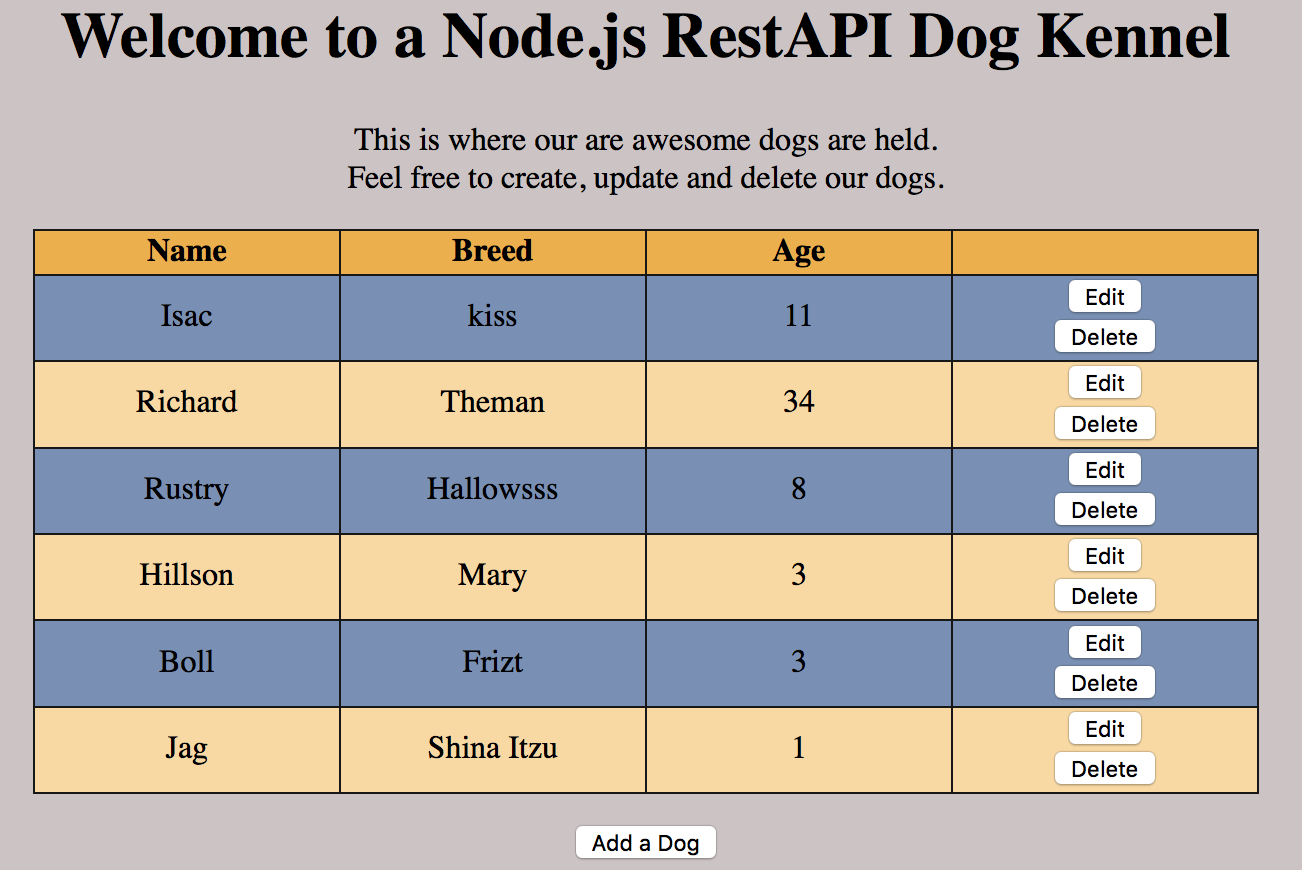
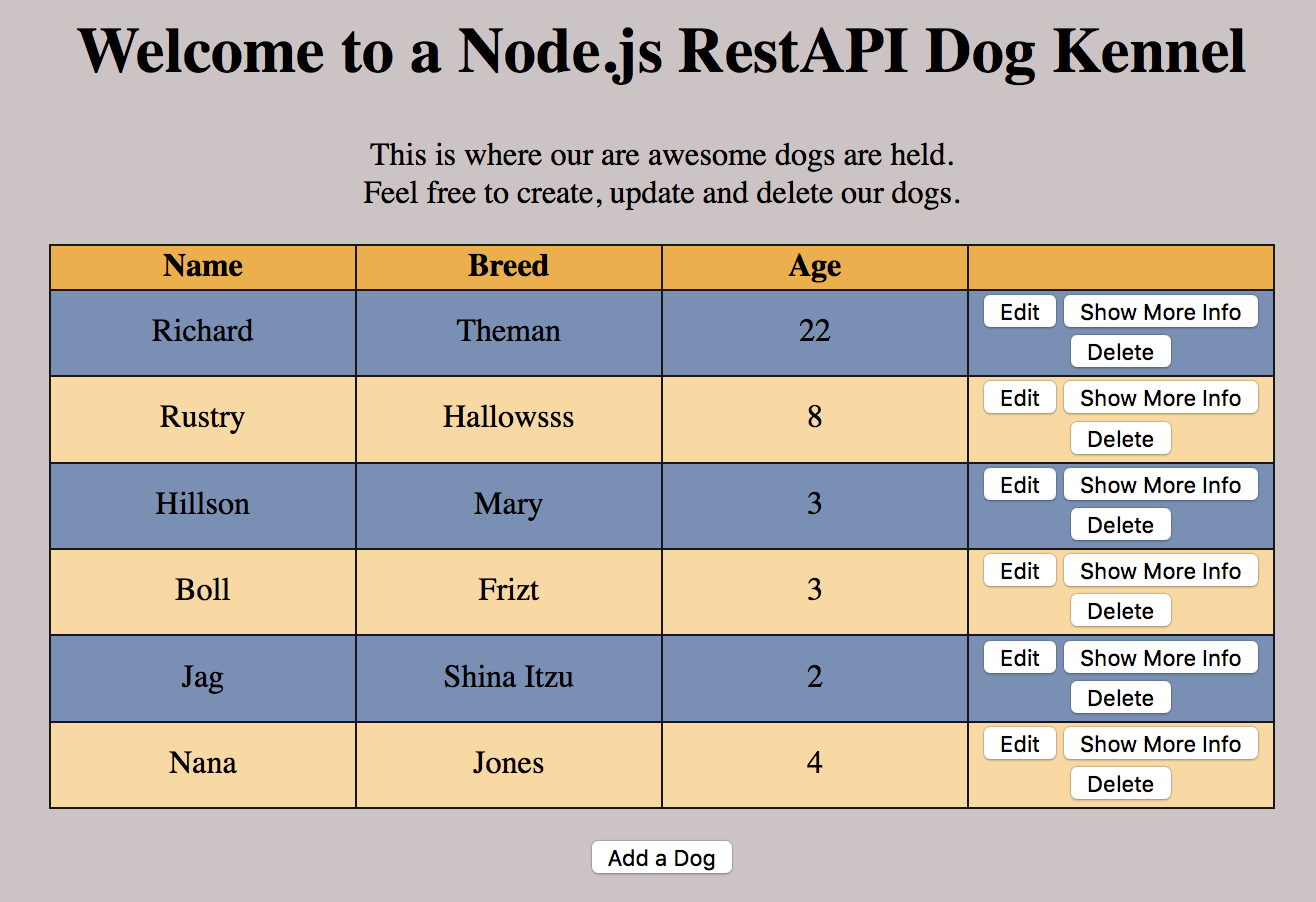
made api/:id show one

Changed region(s): [[0.0, 0.1241, 0.9831, 0.9931], [0.0307, 0.0, 0.9524, 0.0931]]

diff --git a/dogApi/index.js b/dogApi/index.js
@@ -12,26 +12,22 @@ var dogsSchema = mongoose.Schema({
 
 var Dog = mongoose.model('Dog', dogsSchema);
 
-var find = function(req, res){               
-    if(Object.keys(req.query).length === 0 ){
+var findAll = function(req, res){               
         Dog.find( {}, function(err,users){ 
                 if(err)
                     throw err;
                 else
                     res.render('index', { users: users } );
             });
-    }else if(Object.keys(req.query).length === 1 ) {
-        Dog.find(
-            { _id: req.query.id }
-        )
-        .exec(function(err, user){
-            if(err)
-                res.send('No Id Found in DB'); 
-            else
-                res.send(user);
-        });       
-        
-    }
+};
+
+var findOne = function(req, res){               
+        Dog.findById( req.params.id, function(err,user){ 
+                if(err)
+                    throw err;
+                else
+                    res.render('showOne', { user: user } );
+            });
 };
 
 var newDog =  function(req,res){    
@@ -88,7 +84,8 @@ module.exports ={
     mongoose, 
     bodyParser, 
     methodOverride,
-    find,
+    findAll,
+    findOne,
     newDog,
     edit,
     put,

diff --git a/app.js b/app.js
@@ -20,7 +20,8 @@ app.get('/api/new', function(req, res){
 app.post('/api', dogApi.newDog );
 app.put('/api/:id', dogApi.put );
 app.delete('/api/:id', dogApi.deleteDog );
-app.get('/api', dogApi.find );
+app.get('/api', dogApi.findAll );
+app.get('/api/:id', dogApi.findOne );
 app.get('/api/:id/edit', dogApi.edit );
 
 app.get('*', function(req, res){
